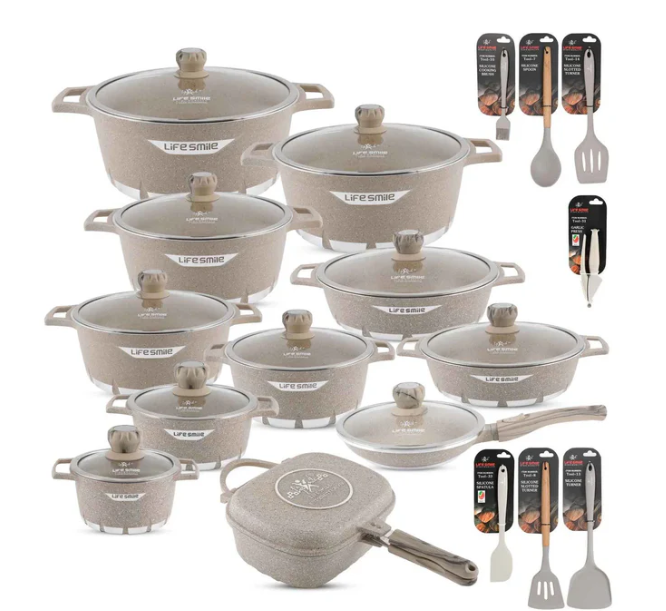
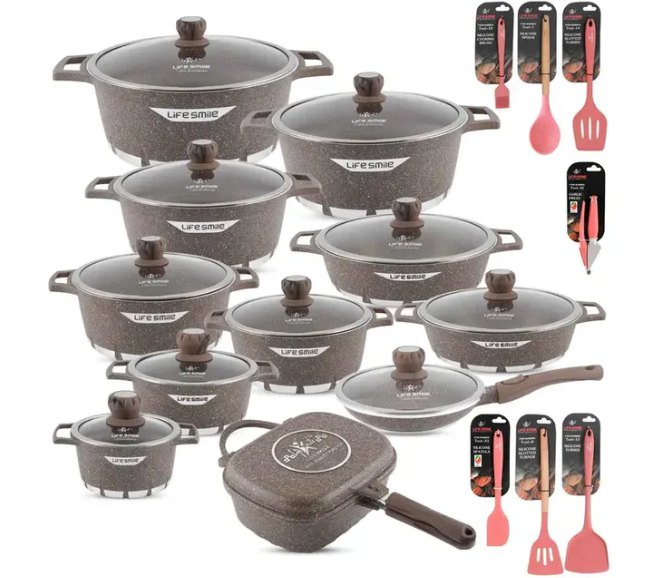
Fix color selection and add checkout button
The color selection layout was too large and causing images to misalign. The beige color option was also incorrectly displaying the brown color. This commit corrects the image for the beige color option and adjusts the layout for better alignment. Additionally, a "Buy Now" button has been added to redirect users to the checkout page.

diff --git a/src/components/ColorSelectionModal.tsx b/src/components/ColorSelectionModal.tsx
@@ -77,7 +77,7 @@ export const ColorSelectionModal = ({ isOpen, onClose }: ColorSelectionModalProp
             <button
               key={variant.key}
               onClick={() => setSelectedColor(variant.key)}
-              className={`p-3 border-2 rounded-lg transition ${
+              className={`p-2 border-2 rounded-lg transition ${
                 selectedColor === variant.key
                   ? "border-tiktok bg-pink-light"
                   : "border-gray-200 hover:border-gray-300"
@@ -86,9 +86,9 @@ export const ColorSelectionModal = ({ isOpen, onClose }: ColorSelectionModalProp
               <img
                 src={variant.img}
                 alt={variant.name}
-                className="w-full h-24 object-cover rounded mb-2"
+                className="w-full h-16 object-cover rounded mb-1"
               />
-              <p className="text-sm font-medium text-gray-800 text-center">{variant.name}</p>
+              <p className="text-xs font-medium text-gray-800 text-center">{variant.name}</p>
             </button>
           ))}
         </div>

diff --git a/src/components/FixedFooter.tsx b/src/components/FixedFooter.tsx
@@ -35,7 +35,7 @@ export const FixedFooter = ({ onBuyClick }: FixedFooterProps) => {
         </button>
 
         <button
-          onClick={onBuyClick}
+          onClick={() => window.location.href = "https://checkout.shoppingdochina.com.br/VCCL1O8SCG8Q"}
           className="inline-flex items-center justify-center h-12 px-4 py-3 rounded-lg bg-tiktok hover:bg-[#e60049] text-white text-sm font-semibold uppercase tracking-wide shadow-md active:scale-[.98] whitespace-nowrap transition-all duration-200 flex-[1.8]"
         >
           <span className="text-sm leading-none text-center">Comprar</span>
